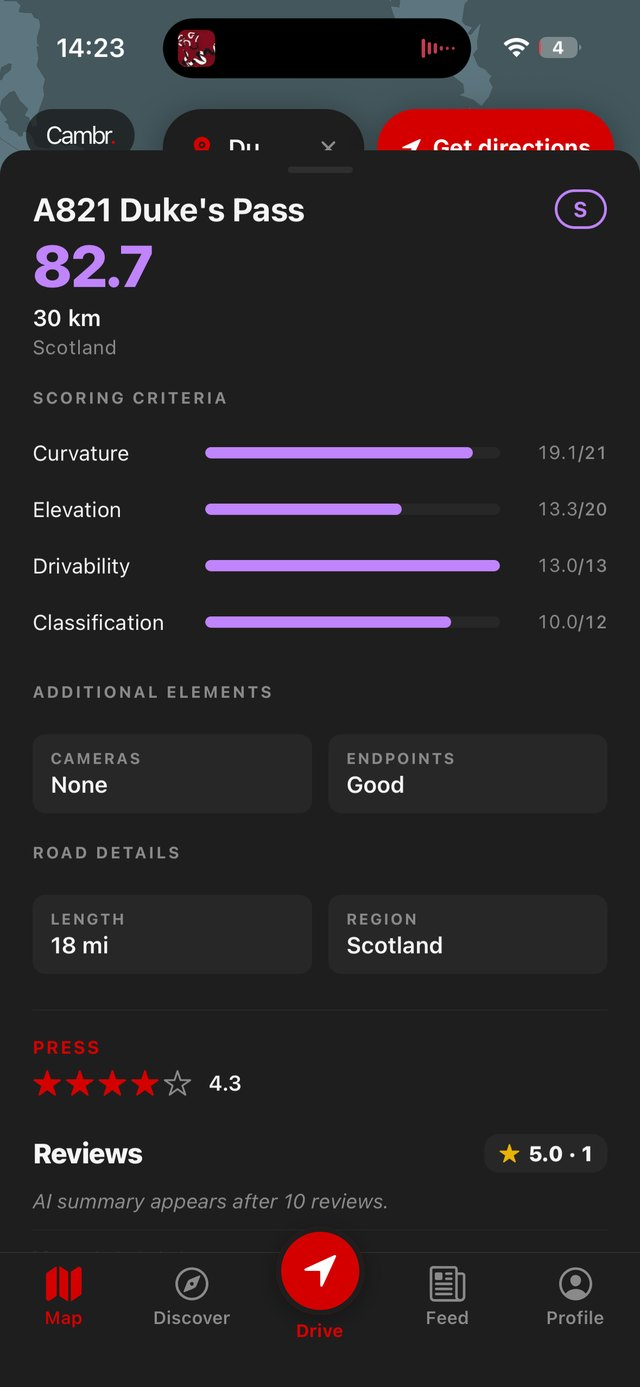
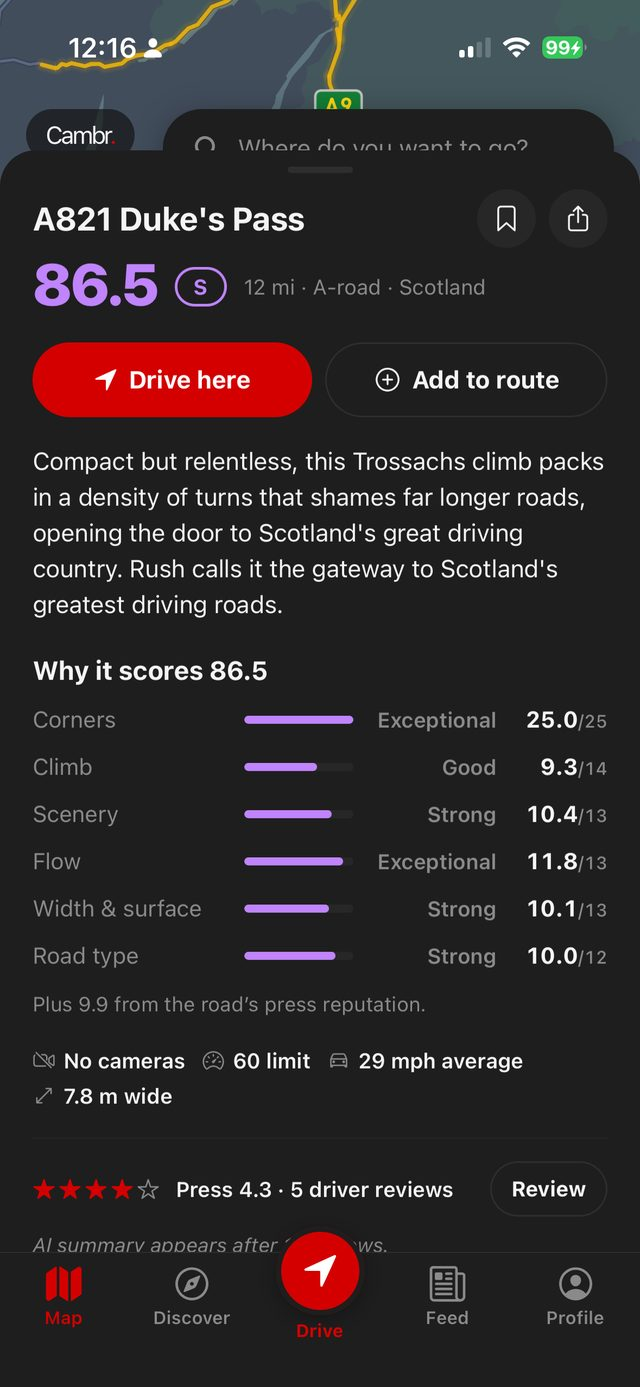
Homepage 1a: correct three live scores, the tier count and the factor count to v3.6
Factual corrections from the cambr-web handoff (2 November 2026), written against the
live database under scoring v3.6. Neil signed the copy off, which lifts the README copy
lock for these lines.

Screenshots re-exported from the supplied 1179x2556 captures to the house 640w
WebP + JPG pair, same filenames so the markup needs no src changes:
  app-map-640    A39 Exmoor Porlock to Lynton  88.7 -> 87.8
  app-dukes-640  A821 Duke's Pass              82.7 -> 86.5
  app-drive-640  Bealach na Ba                 73.7 -> 75.9
Alt text replaced verbatim from the handoff's ALT-TEXT.md.

Copy:
- "nine things that make a drive worth taking" -> "six" (hero body + the meta, og
  and twitter descriptions). v3.6 shows six factors in the road sheet.
- The score paragraph now names the app's own six factors verbatim - corners, climb,
  scenery, flow, width and surface, road type - so the page and the product agree when
  a reader checks one against the other. The "6,000 roads" count is dropped rather than
  corrected: it has swung between 4,405 and 6,644 this year and dates the page every
  time a region lands.
- S-Tier: "The 20 best roads in Britain" -> "The 22 highest-scoring roads in Britain
  and Ireland". The tier contains Irish roads, so the old line was wrong twice.
- Callout: Duke's Pass 82.7 -> 86.5, matching the screenshot beside it. The breakdown
  reconciles: 25.0 + 9.3 + 10.4 + 11.8 + 10.1 + 10.0 = 76.6, plus 9.9 press = 86.5.
[…]

diff --git a/index.html b/index.html
@@ -4,7 +4,7 @@
 <meta charset="UTF-8">
 <meta name="viewport" content="width=device-width, initial-scale=1.0">
 <title>Cambr — Britain's best driving roads, on a map</title>
-<meta name="description" content="The first navigation app for people who love to drive. We scored every road in the UK on the nine things that make a drive worth taking — and built a map that routes you through the great ones, not around them.">
+<meta name="description" content="The first navigation app for people who love to drive. We scored every road in the UK on the six things that make a drive worth taking — and built a map that routes you through the great ones, not around them.">
 <link rel="canonical" href="https://cambr.uk/">
 <meta name="theme-color" content="#141414">
 
@@ -12,7 +12,7 @@
 <meta property="og:type" content="website">
 <meta property="og:site_name" content="Cambr">
 <meta property="og:title" content="Cambr — Britain's best driving roads, on a map">
-<meta property="og:description" content="The first navigation app for people who love to drive. We scored every road in the UK on the nine things that make a drive worth taking — and built a map that routes you through the great ones, not around them.">
+<meta property="og:description" content="The first navigation app for people who love to drive. We scored every road in the UK on the six things that make a drive worth taking — and built a map that routes you through the great ones, not around them.">
 <meta property="og:url" content="https://cambr.uk/">
 <meta property="og:image" content="https://cambr.uk/assets/og-image.jpg">
 <meta property="og:image:width" content="1200">
@@ -20,7 +20,7 @@
 <meta property="og:image:alt" content="A mountain road in the Azores sweeping toward a bank of cloud, with the Cambr wordmark.">
 <meta name="twitter:card" content="summary_large_image">
 <meta name="twitter:title" content="Cambr — Britain's best driving roads, on a map">
-<meta name="twitter:description" content="The first navigation app for people who love to drive. We scored every road in the UK on the nine things that make a drive worth taking — and built a map that routes you through the great ones, not around them.">
+<meta name="twitter:description" content="The first navigation app for people who love to drive. We scored every road in the UK on the six things that make a drive worth taking — and built a map that routes you through the great ones, not around them.">
 <meta name="twitter:image" content="https://cambr.uk/assets/og-image.jpg">
 
 <link rel="preload" as="image" type="image/webp" imagesizes="100vw" imagesrcset="assets/photography/thumbs/glencoe-800.webp 800w, assets/photography/thumbs/glencoe-1200.webp 1200w, assets/photography/thumbs/glencoe-1600.webp 1600w, assets/photography/thumbs/glencoe-2000.webp 2000w">
@@ -587,7 +587,7 @@
       <p class="eyebrow live"><span class="live-dot" aria-hidden="true"></span>Now live in beta testing <span class="k">· iPhone</span></p>
       <h1 class="display">The first navigation app for people who <span class="accent">love to drive</span>.</h1>
       <p class="sub">No-one has ever created a map of great driving roads. <strong>So we did.</strong></p>
-      <p class="hero-body">We measured every road in the UK, scored them on the nine things that make a drive worth taking, and built a map that plans your route through the great ones instead of around them.</p>
+      <p class="hero-body">We measured every road in the UK, scored them on the six things that make a drive worth taking, and built a map that plans your route through the great ones instead of around them.</p>
       <p class="region">UK now. <strong>Europe next.</strong></p>
 
       <form class="capture" id="hero-form" novalidate>
@@ -607,18 +607,18 @@
         <div class="phone-screen">
           <picture>
             <source type="image/webp" srcset="uploads/app-map-640.webp">
-            <img src="uploads/app-map-640.jpg" alt="The Cambr app showing ranked roads across the UK on a dark map, with the A39 Exmoor road scored 88.7" width="640" height="1387" decoding="async">
+            <img src="uploads/app-map-640.jpg" alt="Cambr map of Britain and Ireland with scored roads in tier colours, showing A39 Exmoor Porlock to Lynton scored 87.8" width="640" height="1387" decoding="async">
           </picture>
         </div>
       </div>
       <div class="hero-badges under-phone">
         <span class="badge-eyebrow">Coming soon</span>
         <div class="store-badges">
-          <a href="#" class="badge" aria-label="Download on the App Store">
+          <span class="badge" role="img" aria-label="App Store, coming soon">
             <span class="glyph"><ion-icon name="logo-apple"></ion-icon></span>
             <span class="txt"><span class="small">Download on the</span><span class="big">App Store</span></span>
-          </a>
-          <a href="#" class="badge" aria-label="Get it on Google Play">
+          </span>
+          <span class="badge" role="img" aria-label="Google Play, coming soon">
             <span class="glyph">
               <svg viewBox="0 0 24 24" role="img" aria-hidden="true">
                 <path fill="#00C3FF" d="M3.6 2.4c-.3.3-.5.8-.5 1.4v16.4c0 .6.2 1.1.5 1.4l.1.1L12.9 12v-.1L3.6 2.4z"/>
@@ -628,7 +628,7 @@
               </svg>
             </span>
             <span class="txt"><span class="small up">Get it on</span><span class="big">Google Play</span></span>
-          </a>
+          </span>
         </div>
       </div>
     </div>
@@ -652,7 +652,7 @@
             <div class="phone-screen">
               <picture>
                 <source type="image/webp" srcset="uploads/app-dukes-640.webp">
-                <img src="uploads/app-dukes-640.jpg" alt="The Cambr score breakdown for the A821 Duke's Pass: 82.7, an S-tier road, with every signal scored" width="640" height="1387" loading="lazy" decoding="async">
+                <img src="uploads/app-dukes-640.jpg" alt="Cambr road detail for A821 Duke's Pass scored 86.5, showing the six scoring factors and its S tier badge" width="640" height="1387" loading="lazy" decoding="async">
               </picture>
             </div>
           </div>
@@ -663,13 +663,13 @@
             <span class="build-icon"><ion-icon name="speedometer-outline"></ion-icon></span>
             <h3>The score</h3>
           </div>
-          <p>Every road measured on nine things drivers care about — the corners, the climbs, the surface, the speed, the cameras, the scenery. More than 6,000 roads ranked and sorted into three tiers so far:</p>
+          <p>Every road measured on the same six things the app shows you when you tap a road — corners, climb, scenery, flow, width and surface, and road type. Cameras, speed limits and how fast traffic genuinely moves all feed into those. Every driving road in Britain and Ireland, sorted into three tiers:</p>
 
           <div class="tiers in-score">
             <div class="tier-card tier-s">
               <div class="tier-badge">S</div>
               <h3>S-Tier <span class="glyph">◆</span></h3>
-              <p>The 20 best roads in Britain. The creme-de-la-creme of driving roads and the ones you plan a weekend around, every single one has been written about extensively by the motoring press.</p>
+              <p>The 22 highest-scoring roads in Britain and Ireland. The creme-de-la-creme of driving roads and the ones you plan a weekend around, every single one has been written about extensively by the motoring press.</p>
             </div>
             <div class="tier-card tier-a">
               <div class="tier-badge">A</div>
@@ -685,7 +685,7 @@
 
           <div class="callout">
             <span class="s-chip">S</span>
-            <span><b>Duke's Pass scores 82.7.</b> That puts it in <b>S-Tier</b>. Tap it and you can see exactly why.</span>
+            <span><b>Duke's Pass scores 86.5.</b> That puts it in <b>S-Tier</b>. Tap it and you can see exactly why.</span>
           </div>
         </div>
       </div>
@@ -704,7 +704,7 @@
           <span class="build-icon"><ion-icon name="navigate-outline"></ion-icon></span>
           <h3>The drive</h3>
         </div>
-        <p>Tell Cambr where you're headed and it threads your route through the very best roads it can reach on the way. Two ways to drive it today: the Quick Detour that grabs the best roads on the way, or the Driver's Route that takes the long way on purpose.</p>
+        <p>Tell Cambr where you're headed and it threads your route through the very best roads it can reach on the way. Choose how much time you'll trade for a better road: Fastest, Quick, Driver's Route or Extended.</p>
       </div>
     </div>
   </div>
@@ -758,7 +758,7 @@
           <div class="phone-screen">
             <picture>
               <source type="image/webp" srcset="uploads/app-drive-640.webp">
-              <img src="uploads/app-drive-640.jpg" alt="Cambr navigating a drive in the Highlands, with Bealach na Bà scored 73.7 marked ahead on the route" width="640" height="1387" loading="lazy" decoding="async">
+              <img src="uploads/app-drive-640.jpg" alt="Cambr Active Drive navigation on the Bealach na Bà, showing the road scored 75.9 and A tier" width="640" height="1387" loading="lazy" decoding="async">
             </picture>
           </div>
         </div>

diff --git a/README.md b/README.md
@@ -71,51 +71,50 @@ sums to 18. They still use the legacy cream `journal.css`.
 To publish one: get the corrected count and regions, fix the list and the table, convert it to
 `article.css`, drop the `noindex`, and add it back to the index and the sitemap.
 
-### ⛔ THREE NUMBERS ON THE LIVE LANDING PAGE ARE WRONG
+### ✅ The three wrong numbers are fixed (2026-11-02, scoring v3.6)
 
-Checked **2026-10-02** against the live road-scores export generated that morning at 10:00 UTC.
-The export is the authority — it is what the live map is scoring from, not a doc that may have
-drifted. (It now lives in the private app repo, not here.)
+Flagged 2026-09-09, again 2026-10-02, and corrected on 2026-11-02 from the `cambr-web`
+handoff, which was written against the live database under **v3.6**. Neil signed the copy off,
+which lifts the copy lock for these lines specifically.
 
-```json
-"roads": 4483, "by_tier": {"S": 21, "A": 259, "B": 4203}
-```
-(148 founding + 4,335 discovered.)
-
-| `index.html` says | Reality | Where |
+| `index.html` said | Now says | Where |
 |---|---|---|
-| "More than **6,000** roads ranked" | **4,483** | the score card |
-| "The **20** best roads in Britain" | **21** in S-tier | S-Tier card |
-| "the **nine** things that make a drive worth taking" | **eight** signals under v3.5 | ×5: hero body, score card, and the meta/og/twitter descriptions |
+| "More than **6,000** roads ranked" | "Every driving road in Britain and Ireland" | the score card |
+| "The **20** best roads in Britain" | "The **22** highest-scoring roads in Britain and Ireland" | S-Tier card |
+| "the **nine** things that make a drive worth taking" | "the **six** things…" | ×4: hero body + the meta/og/twitter descriptions |
+| "Duke's Pass scores **82.7**" | **86.5** | the S-chip callout |
 
-`blog/best-driving-roads-uk.html` repeats "nine" four more times, but it is `noindex` and unlinked.
+**The count is gone, not corrected.** It swung 6,644 → 5,772 → 4,405 → 6,500+ → 4,483 across a
+single year, so any figure dates the moment the next region lands. The replacement line states
+coverage instead, which never needs maintaining.
 
-**Why each is wrong:**
+**nine → six, not eight.** The old note here read "eight", from `lib/score_v35.py` `W_V35`
+(`cur · elv · cls · drv · np · spdx · end · cam`). That was the count of *internal weighted
+signals* under v3.5. v3.6 presents **six factors** in the road sheet, and those are what the site
+must agree with, because a reader can open the app and count them:
 
-- **6,000 → 4,483.** The count has swung hard all year: 6,644 → 5,772 → 4,405 after the v3.5 cull,
-  back over 6,500 when fifteen regions landed on 3 September, and down again since. ⚠ **This is a
-  moving number and should probably not be stated on a static page at all** — "thousands of roads"
-  would never need maintaining.
-- **20 → 21.** S-tier was 23 until the phantom-classification reversal (16 founding rows carried a
-  duplicated `cls_v3` credit from the v3.3 write) was applied. A542 Horseshoe Pass dropped out of
-  S-tier; it had been a phantom promotion. The feed confirms the reversal is now live.
-- **nine → eight.** `lib/score_v35.py` `W_V35`, commented *"WHAT SHIPPED 2026-08-13 and what is
-  LIVE on the map today"*: `cur .21 · elv .20 · cls .12 · drv .13 · np .11 · spdx .13 · end .05 ·
-  cam .05` = 1.00. Eight. "Nine" came from the v3.3 table, which listed nine rows — but `trf` and
-  `trn` both carried weight `0.00`. v3.5 drops those two and promotes `spdx` (measured average
-  speed) to a first-class signal.
+> **Corners · Climb · Scenery · Flow · Width & surface · Road type**, plus a separate press
+> reputation layer.
 
-⛔ **Not fixed, because the landing copy is locked and these are Neil's call.** Flagged
-2026-09-09 and again 2026-10-02.
+Duke's Pass reconciles exactly: 25.0 + 9.3 + 10.4 + 11.8 + 10.1 + 10.0 = 76.6, plus 9.9 press
+= **86.5**. Verified against `uploads/app-dukes-640.jpg`, which is that screen.
+Use the app's own six names on any new page — when the page and the product use the same words,
+anyone who checks one against the other finds they agree.
 
-✅ **Correct and verified against the same feed:** Duke's Pass **82.7**, A39 Exmoor **88.7** (both
-in the app screenshots and the body copy), and the A82 Glencoe hero is itself an S-tier road at
-84.5.
+### ⛔ STILL WRONG: the published article says eight
 
-⚠ "What makes a great driving road" is **right** at eight, with an eight-cell grid — the article
-was never the problem. Its eight headings are not a 1:1 map of the eight signals, though: it has
-"Enough length" (a length bonus, not a signal) and no section for `end` (end-point quality). The
-counts agree; the memberships do not quite. Neil's "about eight things" carries that.
+`blog/what-makes-a-great-driving-road.html` is **indexed, in the sitemap at priority 0.9, linked
+from the Journal and already emailed to the list.** It says "about **eight** things" (×2) and
+carries an eight-cell `.signals` grid naming *Corner cadence, Elevation change, Sight lines…* —
+neither the count nor the names match the six the homepage now states.
+
+This is a contradiction between two indexed pages, and it is a content job, not a number swap:
+the article's structure, its grid and its pull-quote are all built on eight. **Neil's call.**
+
+⚠ **Scores expire together.** Every figure on the site is live as of 2026-11-02 under v3.6. The
+founding elevation signal is a known defect, deferred by decision. When it is corrected, Hartside
+88.9, Buttertubs 86.0, Duke's Pass 86.5, A39 Exmoor 87.8, Bealach 75.9, the 22 S-tier count and
+the route percentages all move together. Re-run every figure after that release.
 
 ## Analytics and consent
 
